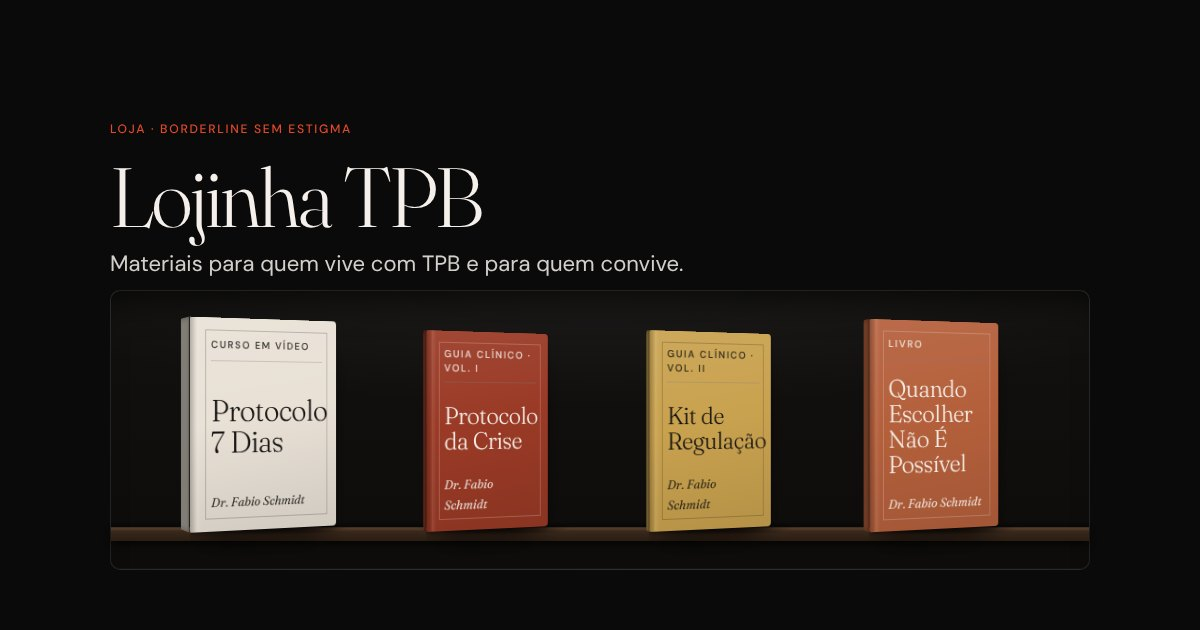
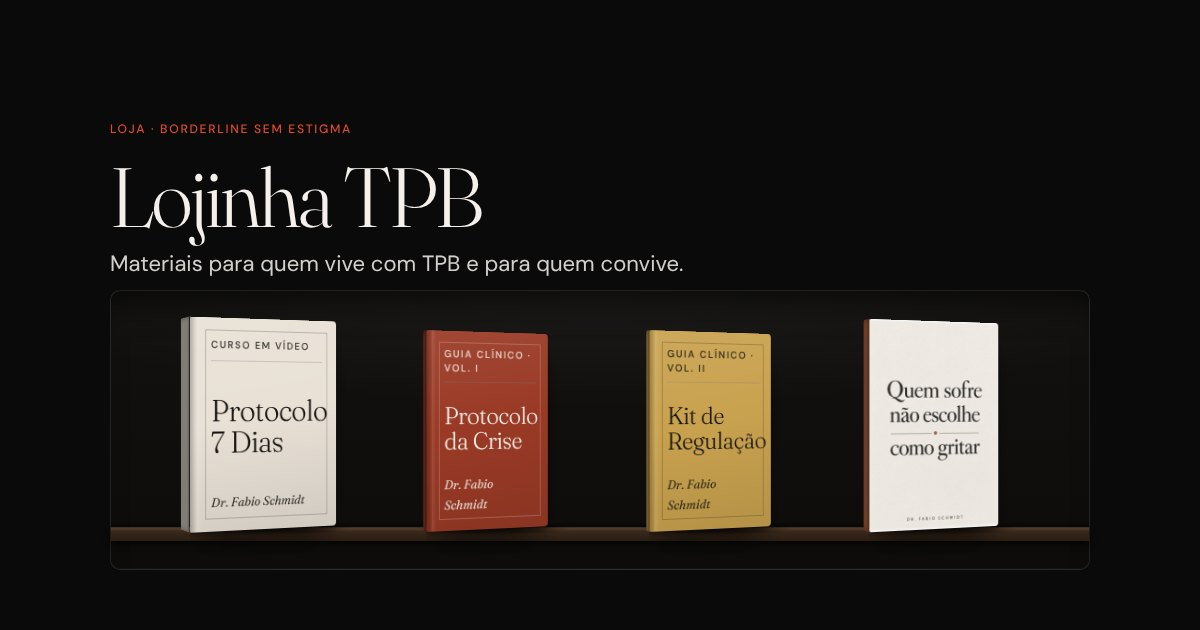
Loja: livro passa a se chamar Quem Sofre Não Escolhe Como Gritar
Claude-Session: https://claude.ai/code/session_01Y1aNYtiaeHPZFWeWvc9va8

Changed region(s): [[0.7092, 0.4825, 0.8325, 0.8444]]

diff --git a/loja/index.html b/loja/index.html
@@ -126,7 +126,7 @@ var PRODUTOS = [
   {
     id: 'quando-escolher',
     rotulo: 'Livro', para: 'Família e parceiros',
-    nome: 'Quando Escolher Não É Possível',
+    nome: 'Quem Sofre Não Escolhe Como Gritar',
     subtitulo: 'Conviver com borderline sem se perder: entender o ciclo, conduzir a crise, proteger quem cuida.',
     publico: 'Quem convive com alguém com TPB: pais, parceiros, filhos e irmãos.',
     naoE: 'Quem procura tratamento ou diagnóstico para si.',

diff --git a/loja/LEIA-ME.md b/loja/LEIA-ME.md
@@ -20,7 +20,7 @@ Basta subir com o mesmo nome. Enquanto o arquivo não existir, a página mostra 
 | Protocolo 7 Dias | capas/protocolo-7-dias.jpg | videos/protocolo-7-dias.mp4 | videos/protocolo-7-dias.jpg |
 | Protocolo da Crise | capas/protocolo-da-crise.jpg | videos/protocolo-da-crise.mp4 | videos/protocolo-da-crise.jpg |
 | Kit de Regulação | capas/kit-de-regulacao.jpg | videos/kit-de-regulacao.mp4 | videos/kit-de-regulacao.jpg |
-| Quando Escolher Não É Possível | capas/quando-escolher.jpg | videos/quando-escolher.mp4 | videos/quando-escolher.jpg |
+| Quem Sofre Não Escolhe Como Gritar | capas/quando-escolher.jpg | videos/quando-escolher.mp4 | videos/quando-escolher.jpg |
 | Começar | capas/comecar.jpg | sem vídeo | sem vídeo |
 | TPB no CAPS | capas/tpb-no-caps.jpg | sem vídeo | sem vídeo |
 
